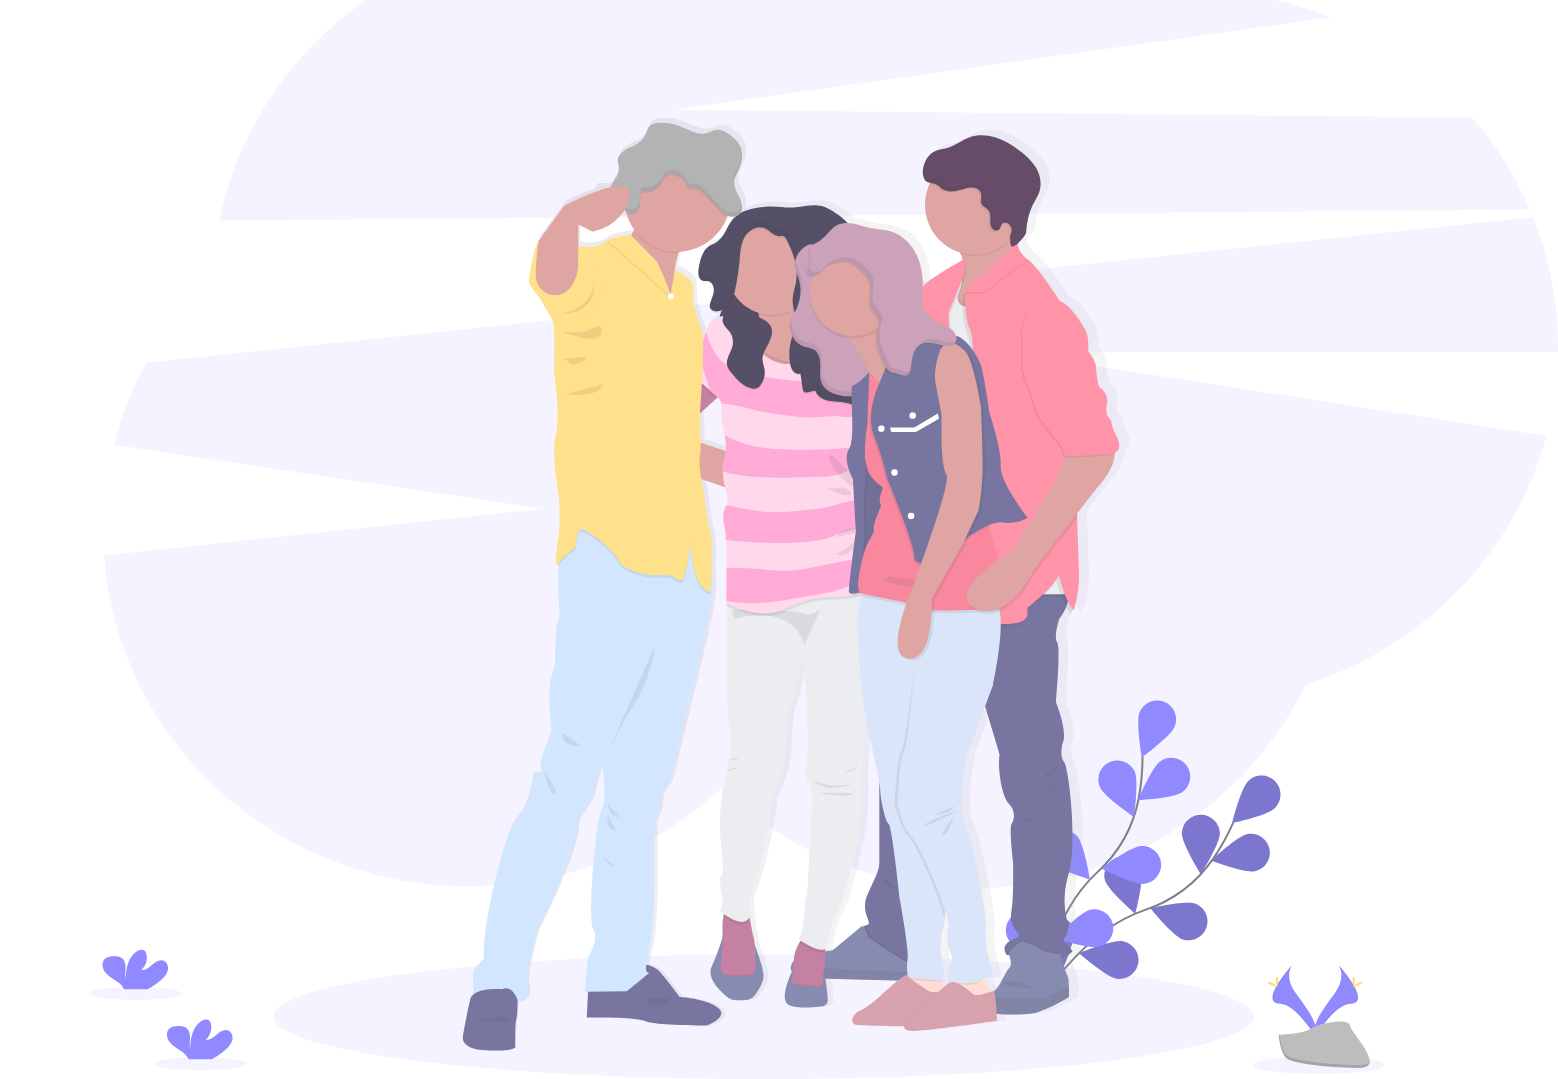
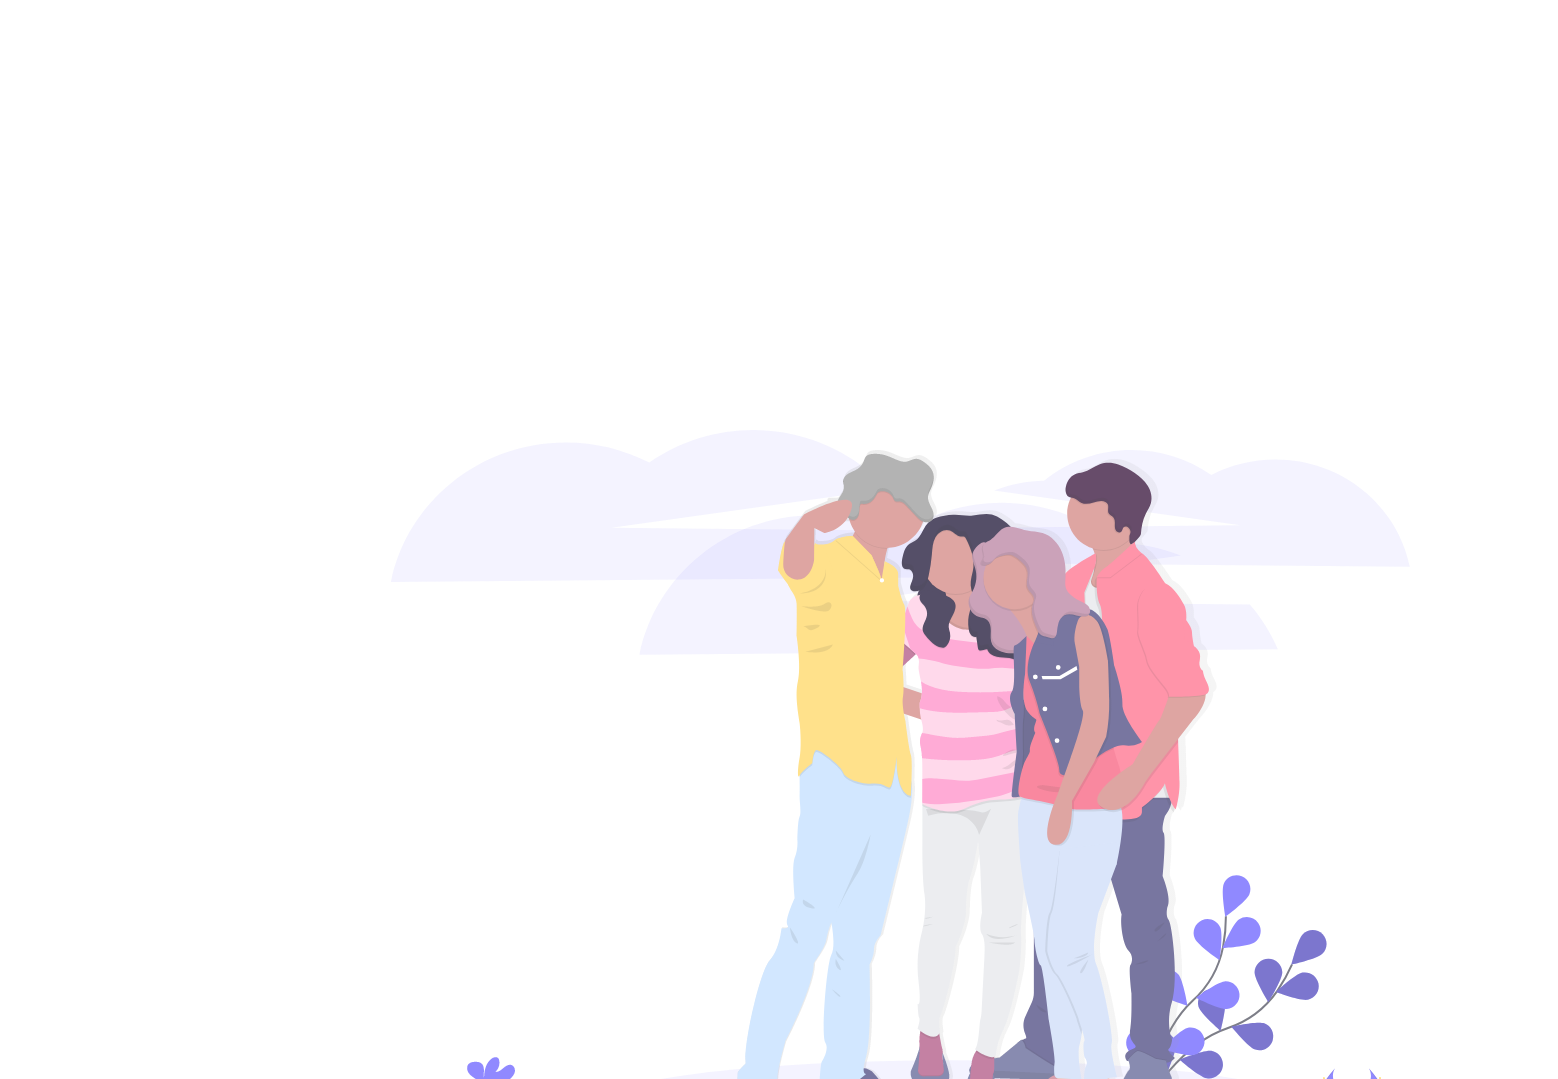
updated home page image

Changed region(s): [[0.2773, 0.0918, 0.8935, 1.0], [0.0924, 0.9481, 0.154, 0.9787], [0.0616, 0.8869, 0.1232, 0.9175]]

diff --git a/assets/css/style.css b/assets/css/style.css
@@ -1,33 +1,31 @@
 @import "../node_modules/bootstrap/scss/bootstrap";
 
-:root{
-  --primary-color:#37CB99;
-  --secondary-color: #5A69BF;
-  --Buttonblue-color:#768DFD;
-  --ButtonGrey-color: #4E4E4E;
-  --normaltext-color:#3E3E3E;
+:root {
+  --primary-color: #37cb99;
+  --secondary-color: #5a69bf;
+  --Buttonblue-color: #768dfd;
+  --ButtonGrey-color: #4e4e4e;
+  --normaltext-color: #3e3e3e;
   --lighttext-color: #898989;
-  --Tiltecolor-color:#4A5071;
-  --WhiteText-color:#ffffff;
+  --Tiltecolor-color: #4a5071;
+  --WhiteText-color: #ffffff;
   --breakpoint-xs: 0;
   --breakpoint-sm: 576px;
   --breakpoint-md: 768px;
   --breakpoint-lg: 992px;
   --breakpoint-xl: 1200px;
-  --font-family-sans-serif: -apple-system, BlinkMacSystemFont, "Segoe UI", Roboto, "Helvetica Neue", Arial, sans-serif, "Apple Color Emoji", "Segoe UI Emoji", "Segoe UI Symbol";
-  --font-family-monospace: SFMono-Regular, Menlo, Monaco, Consolas, "Liberation Mono", "Courier New", monospace;
+  --font-family-sans-serif: -apple-system, BlinkMacSystemFont, "Segoe UI",
+    Roboto, "Helvetica Neue", Arial, sans-serif, "Apple Color Emoji",
+    "Segoe UI Emoji", "Segoe UI Symbol";
+  --font-family-monospace: SFMono-Regular, Menlo, Monaco, Consolas,
+    "Liberation Mono", "Courier New", monospace;
 }
-
-
 
 body {
-
-    font-size: 100%;
-    color: rgb(31, 31, 31);
-    background-color: #ffffff;
+  font-size: 100%;
+  color: rgb(31, 31, 31);
+  background-color: #ffffff;
 }
-
-
 
 /* 
 h2 {
@@ -120,74 +118,72 @@ header {
 }
    */
 
-   .planimg1{
+section.homebkg {
+  background-image: url("../images/Home.png");
+  background-repeat: no-repeat;
+  background-position: center;
+  background-size: cover;
+}
 
-    background-image: url(../images/Gathering.png);
-    background-repeat: no-repeat;
-    background-position:right;
-    background-size:contain;
-    width: 75%;
-    max-height: 75%;
-   }
-
-   input[type=button]{
-      background-color: var(--primary-color);
-      border-color: var(--primary-color);
-
-   }
-
-   .button1{
-    background-color: var(--primary-color);
-    border-color: var(--primary-color);
-
- }
-
-   .title {
-
-    font-family: Impact;
-    /* color: var(--secondary-color) */
-    font-size: 2.5em;
-   }
-
-  #introSect{
-    background-image: url("../images/deskbkg6.jpg");
-    background-repeat: no-repeat;
-    background-position: center;
-    background-size: cover;
-
-  }
-
-  #navSect{
-    background-image: url("../images/Group\ Banner@3x.png");
-    background-repeat: no-repeat;
-    background-position: center;
-    background-size: cover;
-
-  }
-
-  .material-icons {
-    font-family: 'Material Icons';
-    align-self: center;
-    margin: left;
-    font-size: 35px !important;
-    
+.planimg1 {
+  background-image: url("../images/Gathering.png");
+  background-repeat: no-repeat;
+  background-position: right;
+  background-size: cover;
   
-    /* Support for all WebKit browsers. */
-    -webkit-font-smoothing: antialiased;
-    /* Support for Safari and Chrome. */
-    text-rendering: optimizeLegibility;
-  
-    /* Support for Firefox. */
-    -moz-osx-font-smoothing: grayscale;
-  
-    /* Support for IE. */
-    font-feature-settings: 'liga';
+ 
+}
+
+input[type="button"] {
+  background-color: var(--primary-color);
+  border-color: var(--primary-color);
+}
+
+.button1 {
+  background-color: var(--primary-color);
+  border-color: var(--primary-color);
+}
+
+.title {
+  font-family: Impact;
+  /* color: var(--secondary-color) */
+  font-size: 2.5em;
+}
+
+#introSect {
+  background-image: url("../images/deskbkg6.jpg");
+  background-repeat: no-repeat;
+  background-position: center;
+  background-size: cover;
+}
+
+#navSect {
+  background-image: url("../images/Group\ Banner@3x.png");
+  background-repeat: no-repeat;
+  background-position: center;
+  background-size: cover;
+}
+
+.material-icons {
+  font-family: "Material Icons";
+  align-self: center;
+  margin: left;
+  font-size: 35px !important;
+
+  /* Support for all WebKit browsers. */
+  -webkit-font-smoothing: antialiased;
+  /* Support for Safari and Chrome. */
+  text-rendering: optimizeLegibility;
+
+  /* Support for Firefox. */
+  -moz-osx-font-smoothing: grayscale;
+
+  /* Support for IE. */
+  font-feature-settings: "liga";
+}
+
+@media print {
+  .container {
+    width: auto;
   }
-
-
-
-  @media print {
-    .container {
-      width: auto;
-    }
-  }
+}

diff --git a/index.html b/index.html
@@ -48,16 +48,18 @@
   </div> -->
     
 <!--Images loop-->
-    <section class=" h-100 text-center text-bg-dark p-5 container" >
+    <section class="homebkg" >
+
+      <div class=" h-100 text-center text-bg-dark p-5 container ">
       <!-- <div class="cover-container d-flex w-100 h-100 p-3 mx-auto flex-column">-->
-      <main class="px-3">
-        <h1 class="p-3 title">EMERGENCY PREPAREDENESS MADE EASY .</h1>
+      <main class="px-3 pb-5 ">
+        <h1 class="p-3 title justify-content-center d-flex">EMERGENCY PREPAREDENESS MADE EASY .</h1>
         <!-- <p class="lead">Cover is a one-page template for building simple and beautiful home pages. Download, edit the text, and add your own fullscreen background photo to make it your own.</p> -->
         <p class="lead pb-3">
-          <a href="./assets/home.html" class="btn btn-lg  fw-bold border-dark button1">Start Planning</a>
+          <a href="./assets/home.html" class="btn btn-lg  btn-outline-dark">Start Planning</a>
         </p>
       </main>
-    </div>
+    <!-- </div> -->
       
         <!-- <div  class=" container-fluid   bd-highlight  d-flex justify-content-center pt-5  ">
             <p class="h1 text-dark" style="font-family:-apple-system, BlinkMacSystemFont, 'Segoe UI', Roboto, Oxygen, Ubuntu, Cantarell, 'Open Sans', 'Helvetica Neue', sans-serif;">
@@ -132,7 +134,7 @@
           <!-- <a href="./assets/home.html" class="btn btn-primary">START PREPPING</a>
         </div>
     </main> -->
-
+    </div>
     </section>
     <script src="https://code.jquery.com/jquery-3.3.1.slim.min.js" integrity="sha384-q8i/X+965DzO0rT7abK41JStQIAqVgRVzpbzo5smXKp4YfRvH+8abtTE1Pi6jizo" crossorigin="anonymous"></script>
 <script src="https://cdn.jsdelivr.net/npm/popper.js@1.14.7/dist/umd/popper.min.js" integrity="sha384-UO2eT0CpHqdSJQ6hJty5KVphtPhzWj9WO1clHTMGa3JDZwrnQq4sF86dIHNDz0W1" crossorigin="anonymous"></script>
